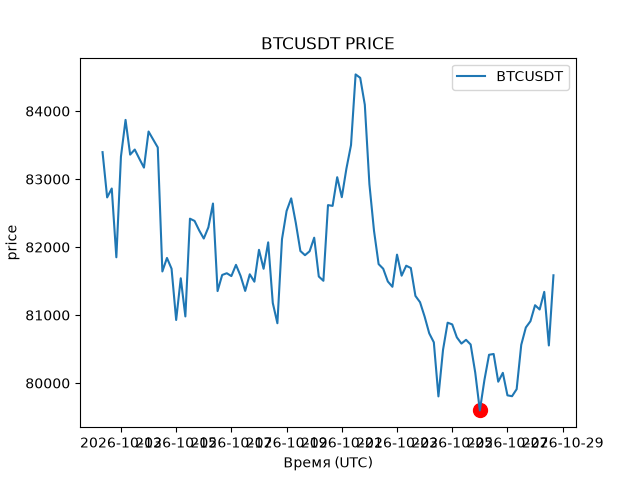
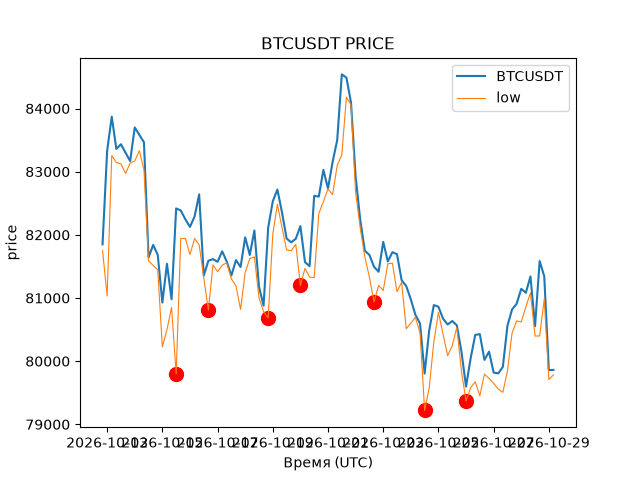
chart: линия low и точки локальных минимумов

diff --git a/pattern_finder/chart.py b/pattern_finder/chart.py
@@ -1,20 +1,23 @@
 import matplotlib.pyplot as plt
 
 
-def plot_close(df,symbol,path):
+def plot_close(df,symbol,path,minima):
     plt.plot(df['open_time'], df['close'], label=symbol)
+    plt.plot(df['open_time'], df['low'], linewidth=0.8, label="low")
     plt.xlabel('Время (UTC)')
     plt.ylabel('price')
-    low_index = df['close'].idxmin()
-    plt.scatter(df.loc[low_index, 'open_time'], df.loc[low_index, 'low'], color='red', s=100)
+    plt.scatter(df.loc[minima, 'open_time'], df.loc[minima,'low'], color='red', s=100)
     plt.legend()
     plt.title(f'{symbol} PRICE')
     plt.savefig(path)
     plt.close()
 if __name__ == "__main__":
     from market import get_candles, candles_to_df
+    from extremes import find_local_minima
 
     candles = get_candles("BTCUSDT", "4h", 100)
     df = candles_to_df(candles)
-    plot_close(df, "BTCUSDT", "btc.png")
+    minima = find_local_minima(df["low"].tolist(), 5)
+    print("Минимумы на свечах:", minima)
+    plot_close(df, "BTCUSDT", "btc.png", minima)
 

diff --git a/pattern_finder/extremes.py b/pattern_finder/extremes.py
@@ -1,0 +1,17 @@
+heights = [5, 3, 4, 6, 2, 2.5, 7, 4, 1, 3, 5]
+
+def find_local_minima(values, window):
+    minima = []
+    for i in range(window,len(values)-window):
+        left = values[i-window:i]
+        right= values[i+1:i+1+window]
+        if all(x > values[i] for x in left) and all(y > values[i] for y in right):
+            minima.append(i)
+    return minima 
+if __name__ == '__main__':
+    print(find_local_minima(heights,2))
+    print(find_local_minima(heights,1))
+    test = [5, 6, 7, 1, 4]
+    print(find_local_minima(test, 2))
+        
+    print(find_local_minima([1, 2, 3, 4, 5], 1))
